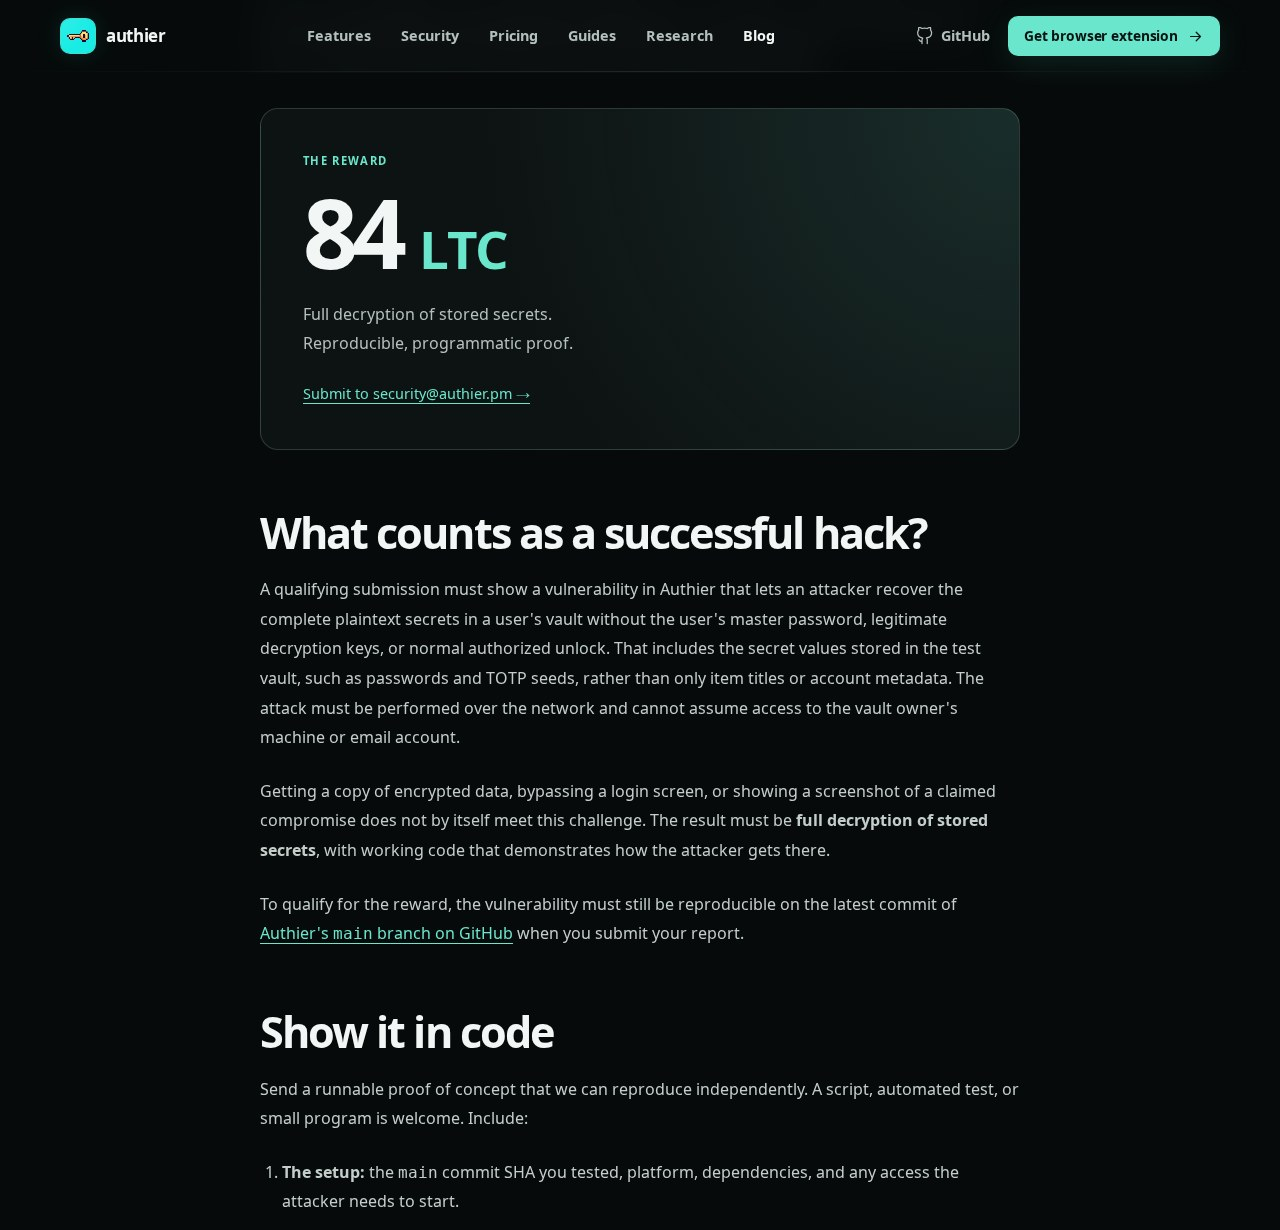
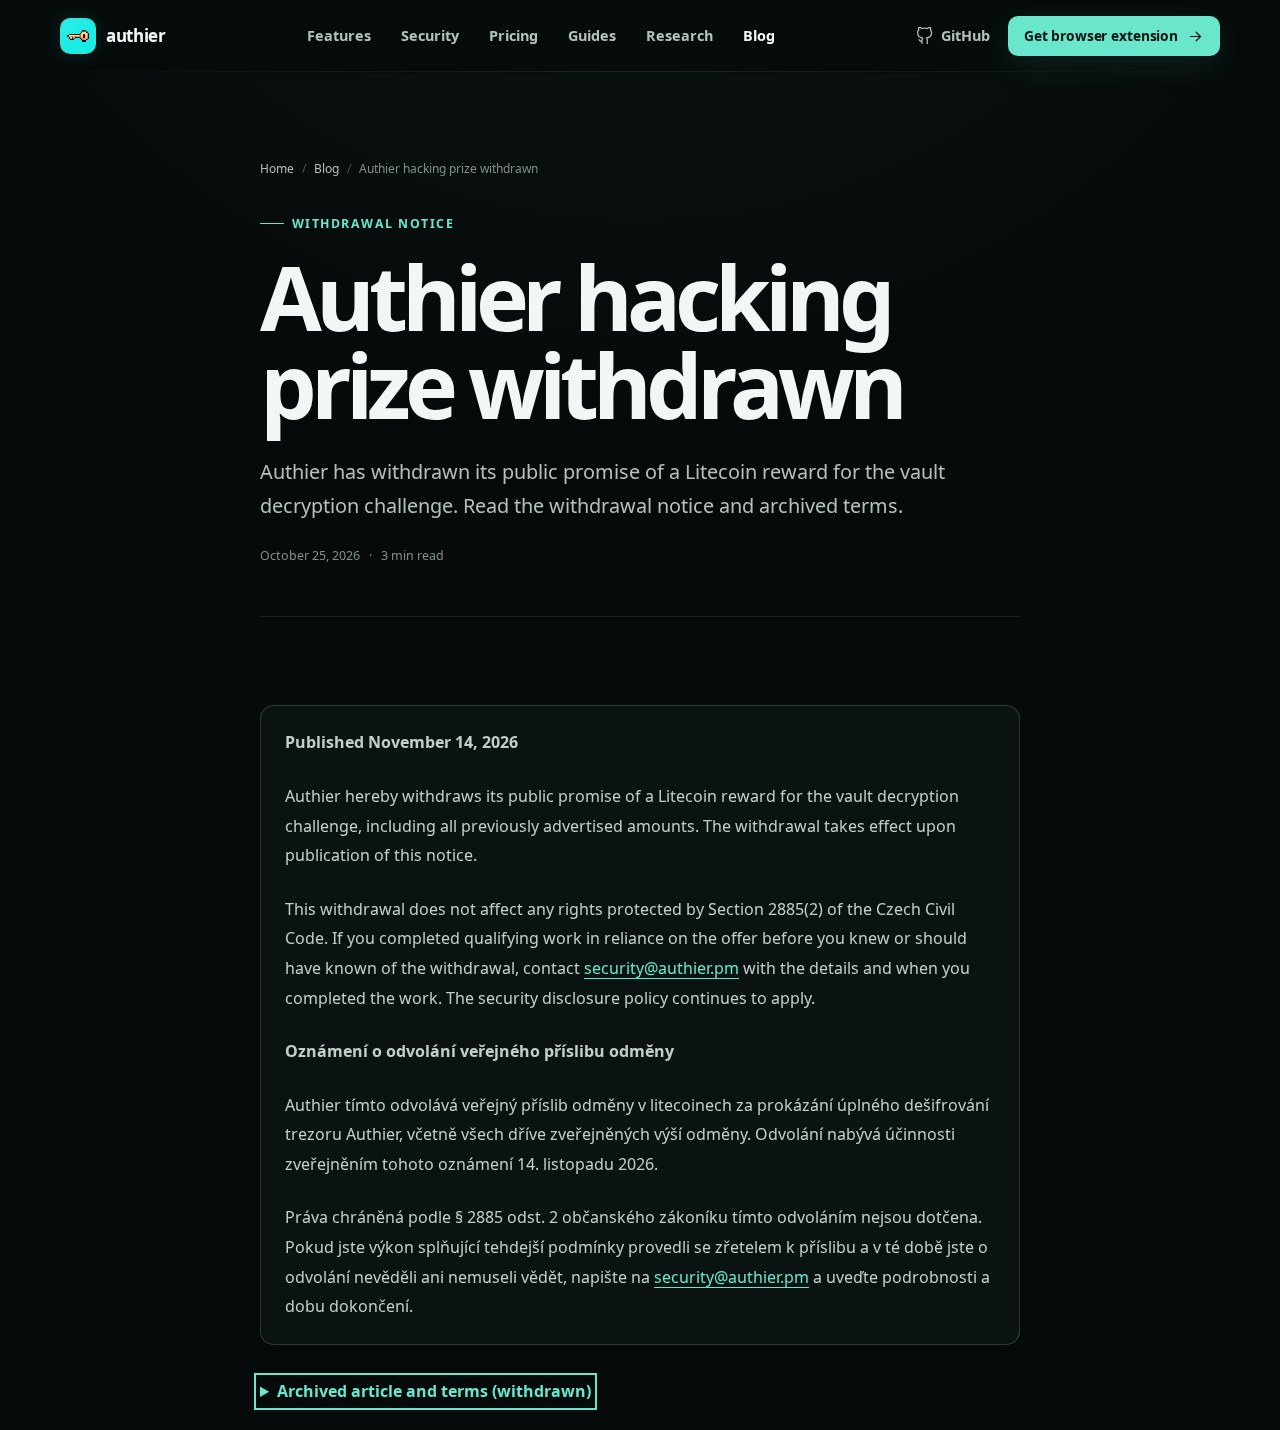
Publish withdrawal notice for the Authier hacking prize

diff --git a/landing-page/src/data/blog.ts b/landing-page/src/data/blog.ts
@@ -3,14 +3,14 @@ import type { ContentEntry } from './content'
 export type BlogPost = ContentEntry
 
 export const hackingPrizePost = {
-  title: 'Hack Authier. Earn 84 LTC.',
+  title: 'Authier hacking prize withdrawn',
   description:
-    'Fully decrypt an Authier vault, demonstrate the attack programmatically, and receive an 84 LTC reward. Submit your proof to security@authier.pm.',
+    'Authier has withdrawn its public promise of a Litecoin reward for the vault decryption challenge. Read the withdrawal notice and archived terms.',
   href: '/blog/hack-authier-10-ltc',
   publishedAt: '2026-10-25',
-  updatedAt: '2026-11-11',
+  updatedAt: '2026-11-14',
   readingTime: '3 min read',
-  category: 'Security challenge'
+  category: 'Security notice'
 } as const satisfies BlogPost
 
 export const blogPosts = [

diff --git a/SECURITY.md b/SECURITY.md
@@ -4,27 +4,11 @@ notify us. We welcome working with you to resolve the issue promptly. Thanks in 
 
 Send security reports to **security@authier.pm**.
 
-## 84 LTC hacking prize
+## Hacking prize withdrawn
 
-Authier offers an **84 LTC (Litecoin)** reward for a verified attack that fully decrypts a user's
-stored vault secrets. Submissions must include a reproducible, programmatic proof of concept;
-access to ciphertext or metadata alone does not qualify. Use accounts you control and synthetic
-secrets, and demonstrate the attack without supplying the user's master password or legitimate
-decryption keys as inputs. The attack must be performed over the network and cannot assume access
-to the vault owner's machine or email account. The disclosure policy and scope below apply.
-
-To qualify for the reward, the vulnerability must still be reproducible on the latest commit of
-[Authier's `main` branch on GitHub](https://github.com/authier-pm/authier/tree/main) when you submit
-your report. Include the tested commit SHA in your reproduction steps.
-
-Ideally, demonstrate the hack with a fresh Authier account created solely for the hack demo,
-populated with synthetic secrets.
-
-Your submission must include a Litecoin receiving address where we should send the 84 LTC reward
-if your attack qualifies.
-
-Read the announcement and submission requirements at
-https://www.authier.pm/blog/hack-authier-10-ltc and send your proof to **security@authier.pm**.
+Authier withdrew its public promise of a Litecoin reward for the vault decryption challenge on
+November 14, 2026. The [withdrawal notice and archived terms](https://www.authier.pm/blog/hack-authier-10-ltc)
+explain how to contact us about work already completed under the earlier offer.
 
 # Disclosure Policy
 

diff --git a/web-extension/ui-preview/README.md b/web-extension/ui-preview/README.md
@@ -27,18 +27,12 @@ entire browser, and retries a lost server acknowledgement without a duplicate.
 The production pending-sync and upgrade notices are captured in
 `docs/screenshots/vaultPendingSync.png`.
 
-The `hacking-prize-blog` scenario embeds the production 84 LTC security challenge
-announcement. Start the Astro server on port 4321 alongside the preview, then
-open `/?scenario=hacking-prize-blog`. Check the 84 LTC headline and reward card,
-full-decryption criteria, and the network attack requirement without assuming
-access to the vault owner's machine or email account. Verify the requirement to
-reproduce on the latest `main` commit when reporting, the tested commit SHA, fresh
-demo account recommendation, required Litecoin receiving address, and submission
-links on desktop and mobile.
-Captures live in `docs/screenshots/hacking-prize-blog-desktop.jpg` and
-`docs/screenshots/hacking-prize-blog-mobile.jpg`.
-The account recommendation and Litecoin address requirement are captured in
-`docs/screenshots/hacking-prize-submission-requirements.jpg`.
+The `hacking-prize-blog` scenario embeds the withdrawal notice at the original
+challenge URL. Start the Astro server on port 4321 alongside the preview, then
+open `/?scenario=hacking-prize-blog`. Check the dated notice in English and Czech,
+the contact for prior claims, and the collapsed archive on desktop and mobile.
+Open the archive with the keyboard to verify that the previous terms remain
+readable. See `docs/screenshots/hacking-prize-blog-desktop.jpg`.
 Set `VITE_WEBSITE_PREVIEW_ORIGIN` when Astro uses a different port, for example
 `VITE_WEBSITE_PREVIEW_ORIGIN=http://127.0.0.1:4323 pnpm preview:ui --port 4175`.
 
